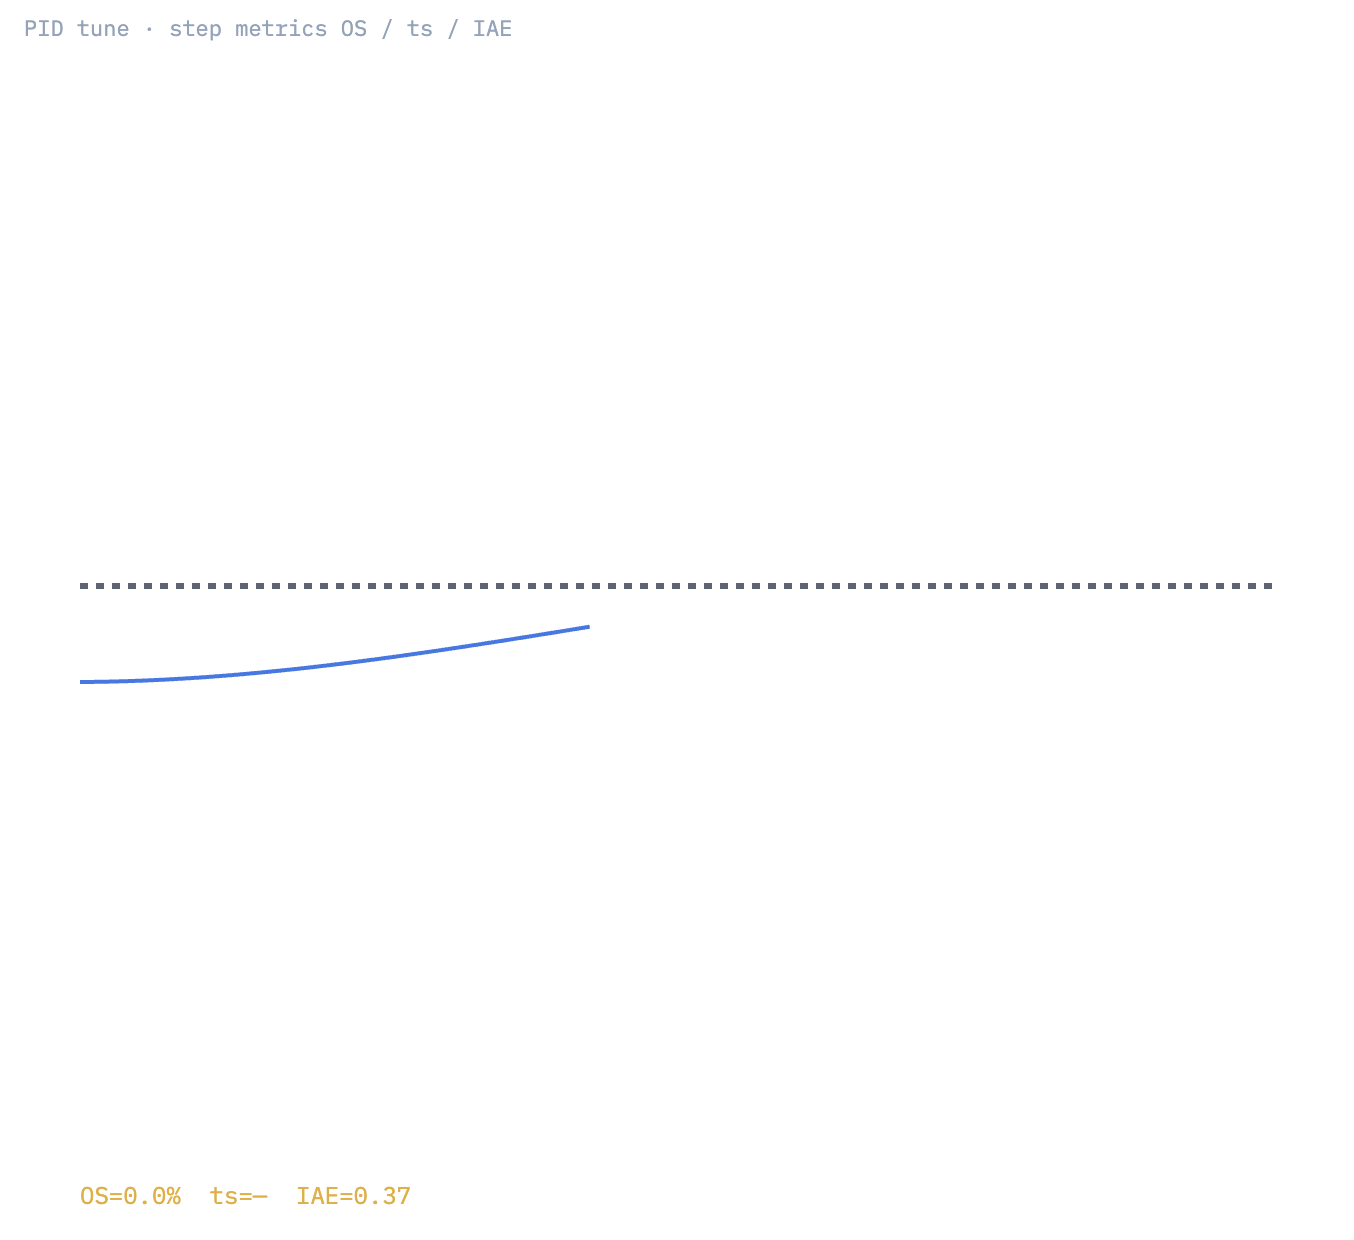
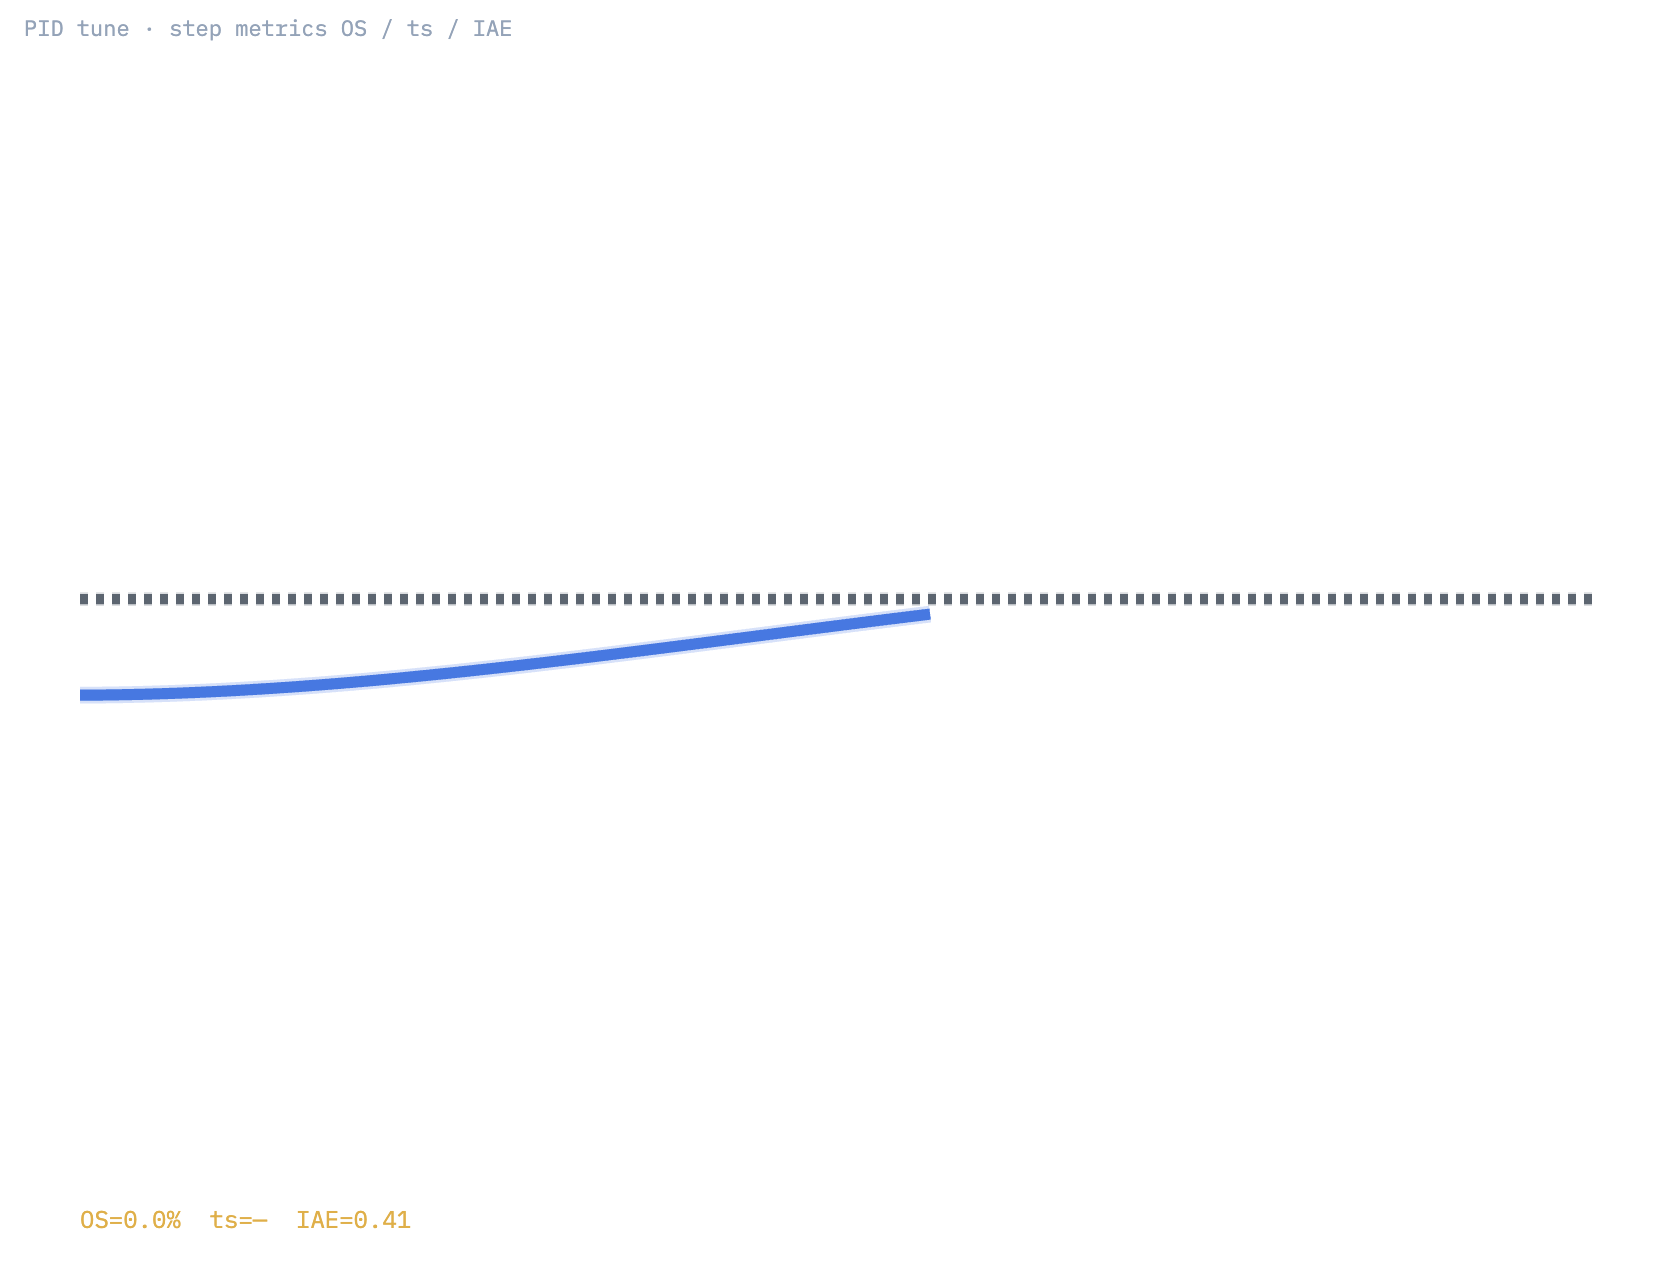
Drop leftover brand-tagline and refresh IMMSPFEE shell assets.
Pages was still shipping the sidebar tagline after domain-nav/idx trim; remove it and ship the tightened logo/low-ink/contract updates with the rebuild.

diff --git a/js/lab/lowInkIds.js b/js/lab/lowInkIds.js
@@ -1,6 +1,6 @@
 /**
  * principle 模型 ink density < 1% 静态表（与 data/principle-low-ink.json 同步）。
- * 仅对这些 id 做「内建曲线加粗」（无墨点网格），避免全局影响视觉基线。
+ * 仅对这些 id 做「内建曲线加粗」（无墨点网格）。
  * 更新：npm run gen:low-ink | npm run gen:low-ink:tighten
  */
 export const LOW_INK_THRESHOLD = 0.01;
@@ -10,10 +10,8 @@ export const LOW_INK_IDS = new Set([
   'adder',
   'airfoil-aero',
   'asm-simple',
-  'axial-loading',
   'cstr',
   'hodgkin-huxley',
-  'logic-gates',
   'logistic-growth',
   'opamp-configs',
   'phugoid-short',
@@ -25,8 +23,6 @@ export const LOW_INK_IDS = new Set([
   'rc-circuit',
   'rc-rl-filter',
   'root-locus',
-  'shaft-torsion',
-  'shear-bearing',
   'step-response',
   'supply-demand',
   'titration-curve',
@@ -37,10 +33,7 @@ export function shouldBoostStroke(modelId) {
   return !!modelId && LOW_INK_IDS.has(modelId);
 }
 
-/**
- * 内建曲线加粗：衬底描边 + 主描边加宽 + 细填充条加粗。
- * 不再铺墨点网格（避免污染画面）。
- */
+/** 内建曲线加粗：衬底描边 + 主描边加宽 + 细填充条加粗（无墨点网格） */
 export function applyLowInkStrokeBoost(model) {
   if (!model || typeof model.draw !== 'function') return model;
   if (!shouldBoostStroke(model.id)) return model;
@@ -50,27 +43,16 @@ export function applyLowInkStrokeBoost(model) {
     const stroke0 = ctx.stroke.bind(ctx);
     const strokeRect0 = ctx.strokeRect.bind(ctx);
     const fillRect0 = ctx.fillRect.bind(ctx);
-    const beginPath0 = ctx.beginPath.bind(ctx);
-    let pathOpen = false;
-
-    ctx.beginPath = (...a) => {
-      pathOpen = true;
-      return beginPath0(...a);
-    };
-
     ctx.stroke = (...a) => {
       const lw = Number(ctx.lineWidth) || 1;
       const alpha = ctx.globalAlpha;
-      // 衬底：更粗半透明
       ctx.lineWidth = Math.max(lw * 4.2, 5);
       ctx.globalAlpha = Math.min(1, alpha * 0.22);
       stroke0(...a);
       ctx.globalAlpha = alpha;
-      // 主曲线
       ctx.lineWidth = Math.max(lw * 2.8, 3.2);
       stroke0(...a);
       ctx.lineWidth = lw;
-      pathOpen = false;
     };
     ctx.strokeRect = (...a) => {
       const lw = Number(ctx.lineWidth) || 1;
@@ -84,23 +66,15 @@ export function applyLowInkStrokeBoost(model) {
       ctx.lineWidth = lw;
     };
     ctx.fillRect = (x, y, w, h) => {
-      if (Math.abs(w) < 3 && Math.abs(h) > 6) {
-        fillRect0(x - 1, y, w + (w >= 0 ? 2 : -2), h);
-      } else if (Math.abs(h) < 3 && Math.abs(w) > 6) {
-        fillRect0(x, y - 1, w, h + (h >= 0 ? 2 : -2));
-      } else {
-        fillRect0(x, y, w, h);
-      }
+      if (Math.abs(w) < 3 && Math.abs(h) > 6) fillRect0(x - 1, y, w + (w >= 0 ? 2 : -2), h);
+      else if (Math.abs(h) < 3 && Math.abs(w) > 6) fillRect0(x, y - 1, w, h + (h >= 0 ? 2 : -2));
+      else fillRect0(x, y, w, h);
     };
-
-    try {
-      draw0(ctx, state, view);
-      void pathOpen;
-    } finally {
+    try { draw0(ctx, state, view); }
+    finally {
       ctx.stroke = stroke0;
       ctx.strokeRect = strokeRect0;
       ctx.fillRect = fillRect0;
-      ctx.beginPath = beginPath0;
     }
   };
   model._lowInkBoosted = true;

diff --git a/index.html b/index.html
@@ -4,7 +4,7 @@
   <meta charset="UTF-8" />
   <meta name="viewport" content="width=device-width, initial-scale=1.0" />
   <title>IMMSPFEE · Lab</title>
-  <link rel="icon" type="image/svg+xml" href="./assets/favicon.svg" />
+  <link rel="icon" type="image/png" sizes="450x68" href="./assets/immspfee-logo.png" />
   <link rel="preconnect" href="https://fonts.googleapis.com" />
   <link rel="preconnect" href="https://fonts.gstatic.com" crossorigin />
   <link href="https://fonts.googleapis.com/css2?family=Sora:wght@400;500;600;700&family=IBM+Plex+Mono:wght@400;500;600&family=Noto+Sans+SC:wght@400;500;700&display=swap" rel="stylesheet" />
@@ -17,16 +17,18 @@
       <div class="sidebar-drag" id="sidebar-drag" aria-hidden="true"><span></span></div>
       <header class="brand">
         <a class="brand-logo" href="./index.html" aria-label="IMMSPFEE">
-          <img
-            src="./assets/immspfee-logo.svg"
-            width="458"
-            height="76"
-            alt="IMMSPFEE"
-            decoding="async"
-            fetchpriority="high"
-          />
+          <picture>
+            <source type="image/webp" srcset="./assets/immspfee-logo.webp" />
+            <img
+              src="./assets/immspfee-logo.png"
+              width="450"
+              height="68"
+              alt="IMMSPFEE"
+              decoding="async"
+              fetchpriority="high"
+            />
+          </picture>
         </a>
-        <p class="brand-tagline">physics · cs · ce · lab</p>
       </header>
 
       <div class="filters">

diff --git a/css/styles.css b/css/styles.css
@@ -106,8 +106,7 @@ html.hc .sidebar-drag span { background: rgba(255,255,255,0.35); }
   display: flex;
   flex-direction: column;
   align-items: stretch;
-  gap: 0.35rem;
-  padding: 0.85rem 0.75rem 0.65rem;
+  padding: 0.85rem 0.75rem 0.55rem;
 }
 .brand-logo {
   display: block;
@@ -115,29 +114,18 @@ html.hc .sidebar-drag span { background: rgba(255,255,255,0.35); }
   text-decoration: none;
   color: inherit;
 }
+.brand-logo picture,
 .brand-logo img {
   display: block;
   width: 100%;
   height: auto;
-  max-height: 36px;
+  max-height: 40px;
   object-fit: contain;
   object-position: left center;
 }
 /* 高对比黑底：反相字标，保持可辨 */
 html.hc .brand-logo img {
   filter: invert(1) grayscale(1);
-}
-.brand-badge {
-  width: 30px;
-  height: 30px;
-  border-radius: 8px;
-  background: var(--ink);
-  color: var(--panel);
-  display: grid;
-  place-items: center;
-  font-family: var(--font-mono);
-  font-size: 0.65rem;
-  font-weight: 600;
 }
 
 .filters {

diff --git a/js/main.js b/js/main.js
@@ -1257,6 +1257,7 @@ document.addEventListener('keydown', (e) => {
       const ok = app.model.runAction(app.state, actionId);
       if (ok) {
         e.preventDefault();
+        syncShellActionEnabled();
         paintFrame();
         paramBench.refresh?.();
         updateHud({ flash: true });
